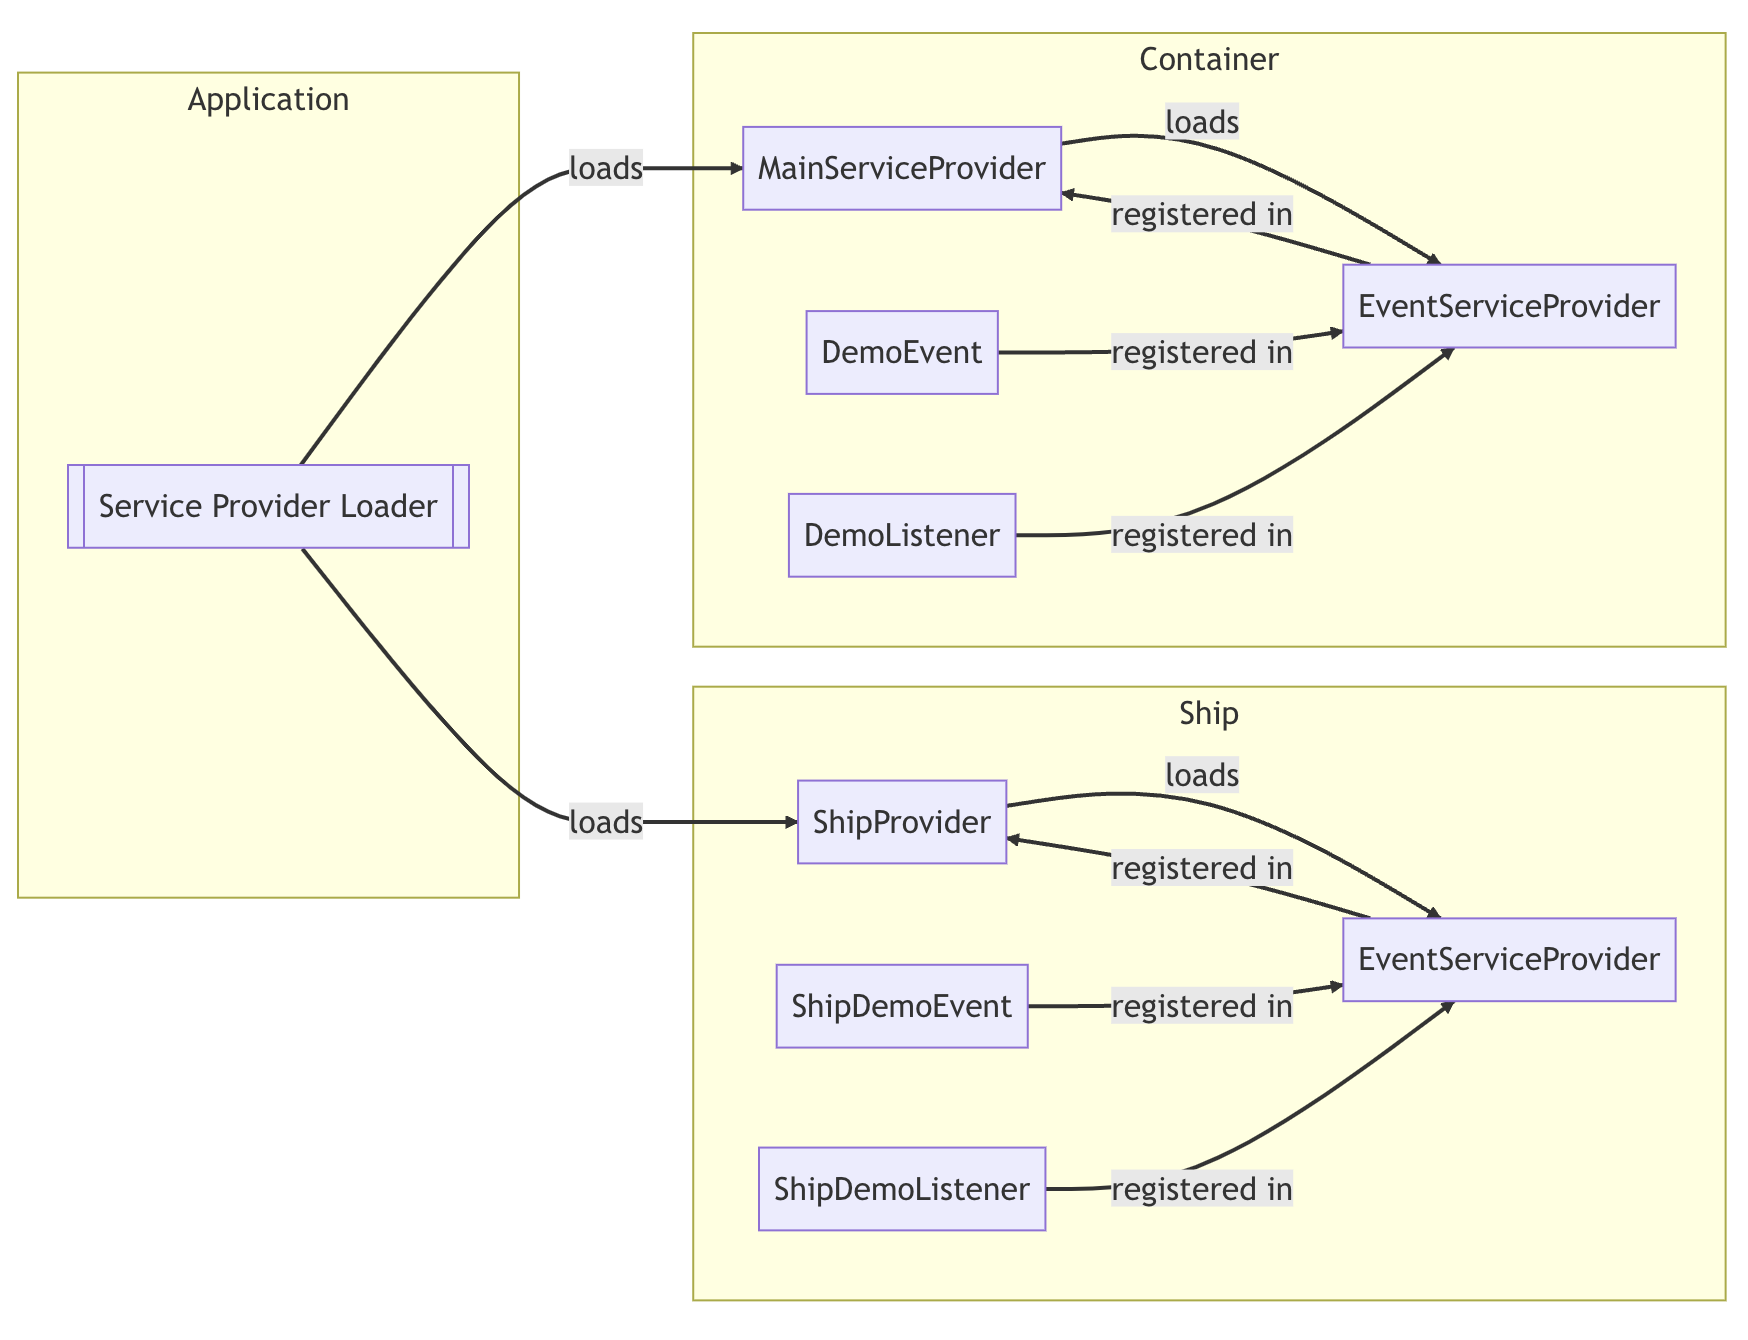
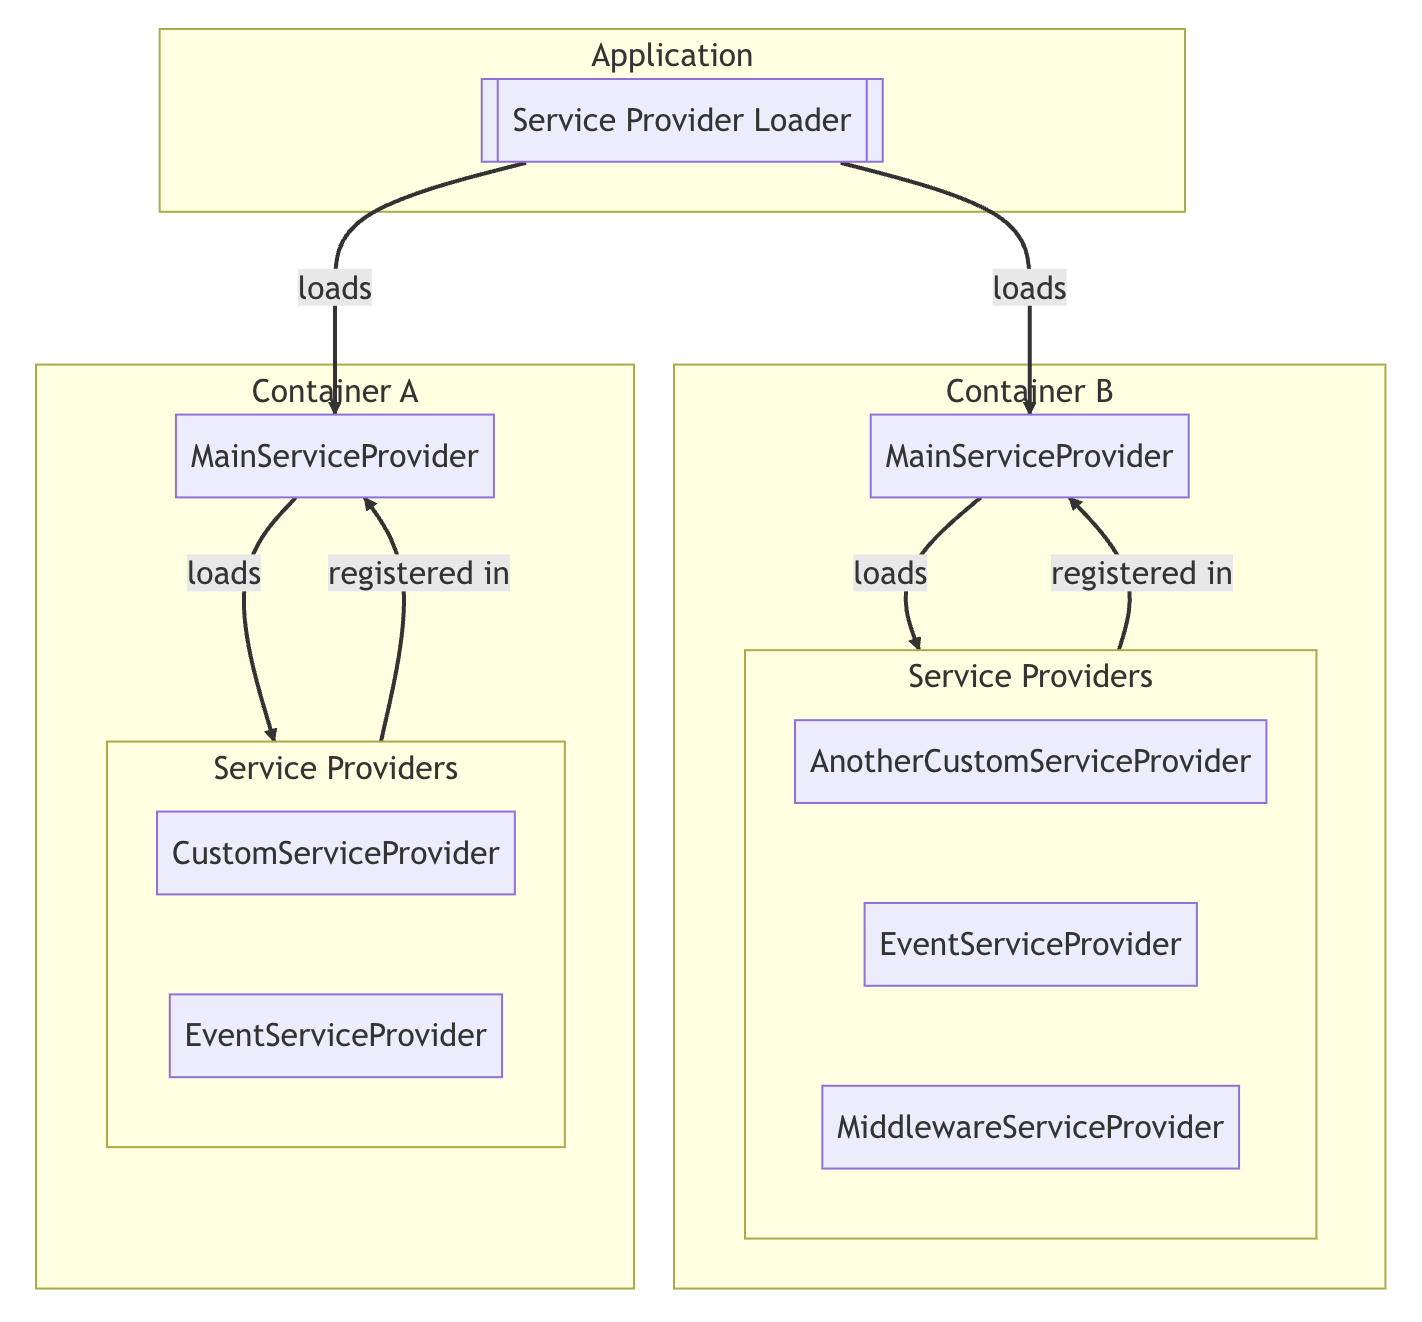
GITBOOK-15: No subject

diff --git a/documentaion/architecture-concepts/porto.md b/documentaion/architecture-concepts/porto.md
@@ -1,2 +1,111 @@
 # Porto
 
+Porto is a modern software architectural pattern that offers developers a comprehensive set of guidelines, principles, and patterns to organize their code in a highly maintainable and reusable way. The primary goal of Porto is to help developers create software that is scalable, flexible, and easy to maintain over time.
+
+### Layers[](https://apiato.io/docs/architecture-concepts/porto#layers) <a href="#layers" id="layers"></a>
+
+Porto's architecture is based on two layers: Containers and Ship.
+
+#### Containers[](https://apiato.io/docs/architecture-concepts/porto#containers) <a href="#containers" id="containers"></a>
+
+The Containers layer encompasses all the application's business logic code and consists of two primary concepts:
+
+* Section
+* Container
+
+**Section**[****](https://apiato.io/docs/architecture-concepts/porto#section)
+
+A Section refers to a collection of related Containers. These Containers can represent various entities such as services (either micro or larger in scale) or subsystems within the main system.
+
+Note
+
+A Section is not allowed to directly communicate with another Section, except via Events or Commands.
+
+**Container**[****](https://apiato.io/docs/architecture-concepts/porto#container)
+
+A Container represents a cohesive set of related functionalities. It can be a specific feature or a wrapper around a RESTful API resource.
+
+Note
+
+A Container is allowed to depend on other Containers in the same Section.
+
+#### Ship[](https://apiato.io/docs/architecture-concepts/porto#ship) <a href="#ship" id="ship"></a>
+
+The Ship layer contains the infrastructure code, which consists of shared code utilized by all Containers.
+
+### Typical Project Structure[](https://apiato.io/docs/architecture-concepts/porto#typical-project-structure) <a href="#typical-project-structure" id="typical-project-structure"></a>
+
+```
+app
+├── Containers
+│   ├── Section
+│   │   └── Container
+│   │       ├── Actions
+│   │       ├── Configs
+│   │       ├── Data
+│   │       │   ├── Factories
+│   │       │   ├── Migrations
+│   │       │   ├── Repositories
+│   │       │   └── Seeders
+│   │       ├── Mails
+│   │       │   └── Templates
+│   │       ├── Middlewares
+│   │       ├── Models
+│   │       ├── Notifications
+│   │       ├── Providers
+│   │       ├── Tasks
+│   │       ├── Tests
+│   │       │   └── Unit
+│   │       ├── Traits
+│   │       └── UI
+│   │           ├── API
+│   │           │   ├── Controllers
+│   │           │   ├── Requests
+│   │           │   ├── Routes
+│   │           │   ├── Tests
+│   │           │   │   └── Functional
+│   │           │   └── Transformers
+│   │           └── WEB
+│   │           │   ├── Controllers
+│   │           │   ├── Requests
+│   │           │   ├── Routes
+│   │           │   └── Views
+│   │           └── CLI
+│   │               └── Commands
+│   └── Vendor `// All installed and reusable Containers`
+│       ├── ContainerA
+│       └── ContainerB
+└── Ship `// All shared code between all Containers`
+    ├── Broadcasts
+    ├── Commands
+    ├── Configs
+    ├── Contracts
+    ├── Criterias
+    ├── Events
+    ├── Exceptions
+    ├── Generators
+    ├── Helpers
+    ├── Kernels
+    ├── Listeners
+    ├── Mails
+    ├── Middlewares
+    ├── Migrations
+    ├── Notifications
+    ├── Parents
+    ├── Providers
+    ├── Seeders
+    └── Tests
+```
+
+### Default Sections[](https://apiato.io/docs/architecture-concepts/porto#default-sections) <a href="#default-sections" id="default-sections"></a>
+
+Mustang ships with two default Sections:
+
+* **AppSection**: contains all the default Containers.
+* **Vendor**: contains all the installed and reusable Containers.
+
+{% hint style="success" %}
+The **Vendor** section is a special Section within the Containers layer that holds installed and reusable Containers. It serves a similar purpose as the vendor folder located at the root. Any Section is permitted to depend on the Vendor Section, allowing for the utilization of its Containers.
+
+Read more about the [Container Installer](https://apiato.io/docs/pacakges/) to learn how to install Vendor Containers.
+{% endhint %}

diff --git a/documentaion/architecture-concepts/container.md b/documentaion/architecture-concepts/container.md
@@ -1,2 +1,35 @@
 # Container
 
+[Containers](https://github.com/Mahmoudz/Porto#containers) are at the core of Mustang. Within Containers, you'll find the application-specific business logic, encompassing all the features and functionalities of your application. This is where you'll spend almost all of your time, whether it's developing new features or maintaining existing ones.
+
+A fundamental advantage of Mustang is its ability to simplify complex problems by breaking them down into smaller, more manageable Containers. Each Container is thoughtfully designed to encapsulate a specific piece of functionality, which, in turn, makes development, testing, and maintenance more accessible.
+
+By structuring your code in this modular fashion, Mustang empowers you to create a more modular and reusable codebase. This not only facilitates scaling and long-term maintenance but also minimizes code duplication throughout different segments of your application.
+
+In summary, a Container represents a cohesive set of related functionalities. It can be a specific feature or a wrapper around a RESTful API resource.
+
+To generate new containers along with all their [components](https://apiato.io/docs/architecture-concepts/components), you may use the `mustang:generate:container` interactive command:
+
+```
+php artisan mustang:generate:container
+```
+
+### Composer Dependencies[](https://apiato.io/docs/architecture-concepts/container#composer-dependencies) <a href="#composer-dependencies" id="composer-dependencies"></a>
+
+To manage Composer dependencies, follow these guidelines:
+
+* All the Composer dependencies for a specific Container should be defined within that Container's `composer.json` file.
+* Dependencies related to the Ship layer should be placed in the root of the Ship layer, in a `composer.json` file.
+* Framework core dependencies should be defined in the project's root-level `composer.json` file.
+
+In practice, you can choose to place Composer dependencies in any of these `composer.json` files, and they will perform the same function. The choice of location depends on what is most relevant and convenient for your project.
+
+### Readme[](https://apiato.io/docs/architecture-concepts/container#readme) <a href="#readme" id="readme"></a>
+
+Each Container has the option to include a `readme.md` file at its root, which serves to explain the Container's purpose and how to use it.
+
+To generate new readme files, you may use the `mustang:generate:readme` interactive command:
+
+```
+php artisan mustang:generate:readme
+```

diff --git a/documentaion/architecture-concepts/request-lifecycle.md b/documentaion/architecture-concepts/request-lifecycle.md
@@ -1,2 +1,28 @@
 # Request Lifecycle
 
+When using any tool in the "real world", you feel more confident if you understand how that tool works. Application development is no different. When you understand how your development tools function, you feel more comfortable and confident using them.
+
+The following steps describe a basic API call scenario:
+
+1. The User calls an `Endpoint` in a `Route` file.
+2. `Endpoint` calls a `Middleware` to handle the Authentication.
+3. `Endpoint` calls its corresponding `Controller` function.
+4. The `Request` object, which is injected in the `Controller`, applies the request validation and authorization rules.
+5. `Controller` calls an `Action` and passes the data from the `Request` object to it.
+6. `Action` executes the business logic or call as many `Tasks` as needed.
+7. `Tasks` execute reusable subsets of the business logic.
+8. `Action` prepares the data to be returned to the `Controller`, and may collect data from the `Tasks` if needed.
+9. `Controller` builds the response using a `View` or `Transformer`, and sends it back to the User.
+
+It is important to note that the `Request` object handles request validation and authorization rules, while the `Action` executes the business logic. The `Tasks` can be used to execute reusable subsets of the business logic, with each `Task` responsible for a single portion of the main `Action`. The `View` or `Transformer` is used to build the response that is sent back to the User.
+
+### Request Lifecycle Diagram[](https://apiato.io/docs/architecture-concepts/request-lifecycle#request-lifecycle-diagram) <a href="#request-lifecycle-diagram" id="request-lifecycle-diagram"></a>
+
+**Legend:**[****](https://apiato.io/docs/architecture-concepts/request-lifecycle#legend)
+
+* Solid Line: Mandatory dependency (always used)
+* Doted Line: Optional dependency (not always used)
+* Red Solid Border: Response generation
+* Green Dashed Border: Optional component (not always used)
+
+<figure><img src="../../.gitbook/assets/lifecycle.png" alt=""><figcaption></figcaption></figure>

diff --git a/documentaion/architecture-concepts/components.md b/documentaion/architecture-concepts/components.md
@@ -1,2 +1,23 @@
 # Components
 
+In the Container layer of [Porto](https://apiato.io/docs/architecture-concepts/porto#container), you will find a comprehensive range of [predefined Components](https://github.com/Mahmoudz/Porto#components), each with its specific responsibility. It is imperative to organize all your code within these Components to ensure proper structure and organization.
+
+Mustang offers an [extensive list](components.md) of these Components, accompanied by detailed guidelines for their utilization. Adhering to these guidelines is crucial to ensure a streamlined development process.
+
+Components play a pivotal role in maintaining consistency throughout your codebase and enhancing its maintainability. They provide a clear and structured approach, making it easier to locate and manage individual code snippets.
+
+Leveraging these Components enables you to construct a modular and reusable codebase, simplifying future maintenance and facilitating modifications when needed.
+
+Components in Porto are categorized into two types: Main Components and Optional Components.
+
+### Main Components[](https://apiato.io/docs/architecture-concepts/components#main-components) <a href="#main-components" id="main-components"></a>
+
+[Main Components](https://apiato.io/docs/components/main-components/) are essential for the Container's functionality and must be used to achieve its core purpose.
+
+### Optional Components[](https://apiato.io/docs/architecture-concepts/components#optional-components) <a href="#optional-components" id="optional-components"></a>
+
+[Optional Components](https://apiato.io/docs/components/optional-components/) offer additional functionality that can be incorporated into the Container. Their usage is discretionary, depending on specific requirements.
+
+{% hint style="info" %}
+To learn more about how all this fits together, read the [Request Lifecycle](https://apiato.io/docs/architecture-concepts/request-lifecycle) page.
+{% endhint %}

diff --git a/documentaion/components/optional-components/events.md b/documentaion/components/optional-components/events.md
@@ -145,4 +145,4 @@ app
 
 The following diagram illustrates the registration flow of events and listeners in the above folder structure:
 
-<figure><img src="../../../.gitbook/assets/image (1).png" alt=""><figcaption></figcaption></figure>
+<figure><img src="../../../.gitbook/assets/image (1) (1).png" alt=""><figcaption></figcaption></figure>

diff --git a/documentaion/components/optional-components/service-providers.md b/documentaion/components/optional-components/service-providers.md
@@ -197,4 +197,4 @@ app
 
 The following diagram illustrates the registration flow of service providers in the above folder structure:
 
-<figure><img src="../../../.gitbook/assets/image.png" alt=""><figcaption></figcaption></figure>
+<figure><img src="../../../.gitbook/assets/image (1).png" alt=""><figcaption></figcaption></figure>
